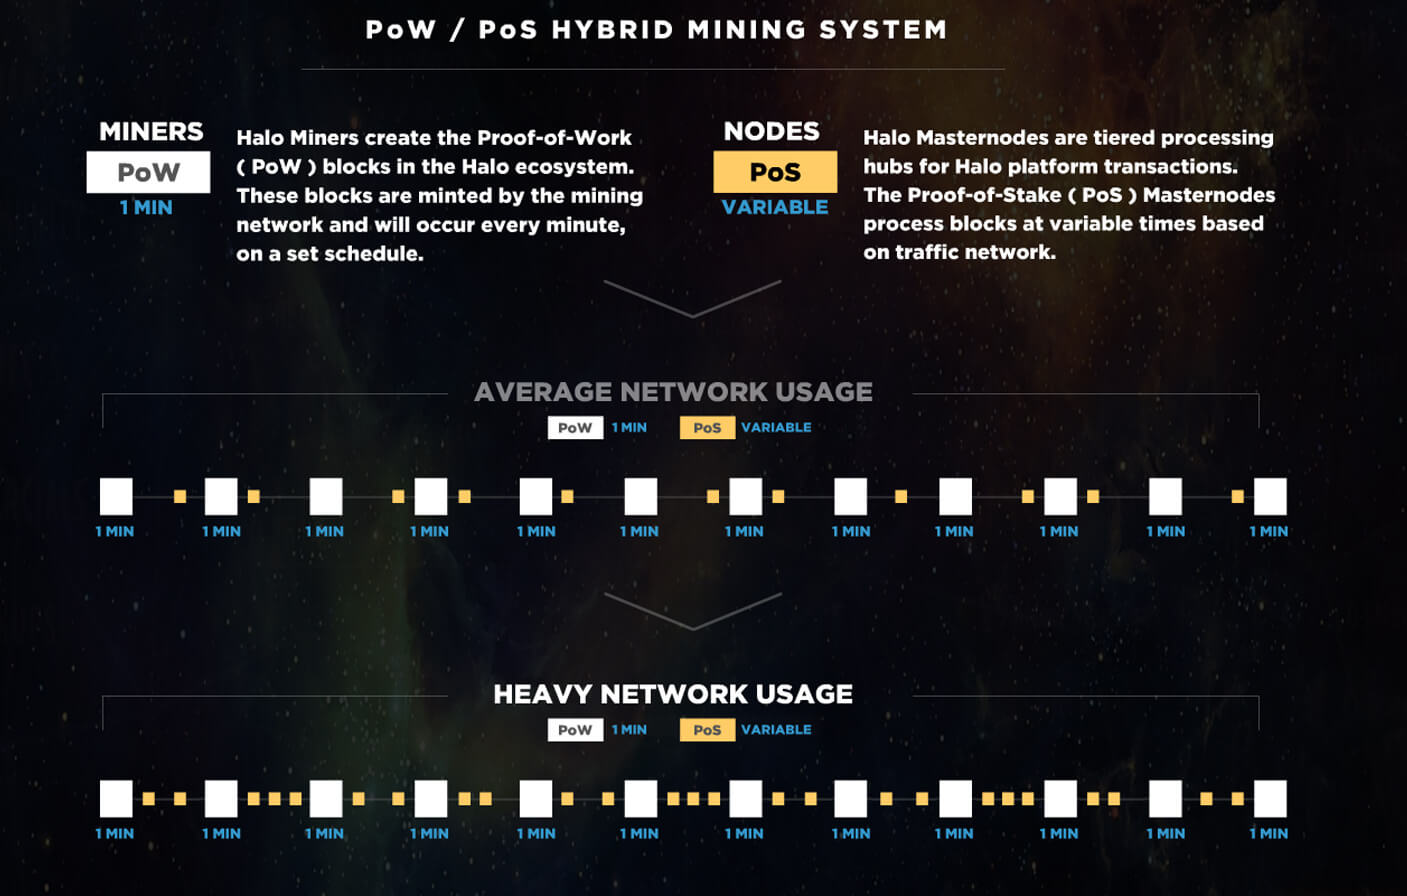
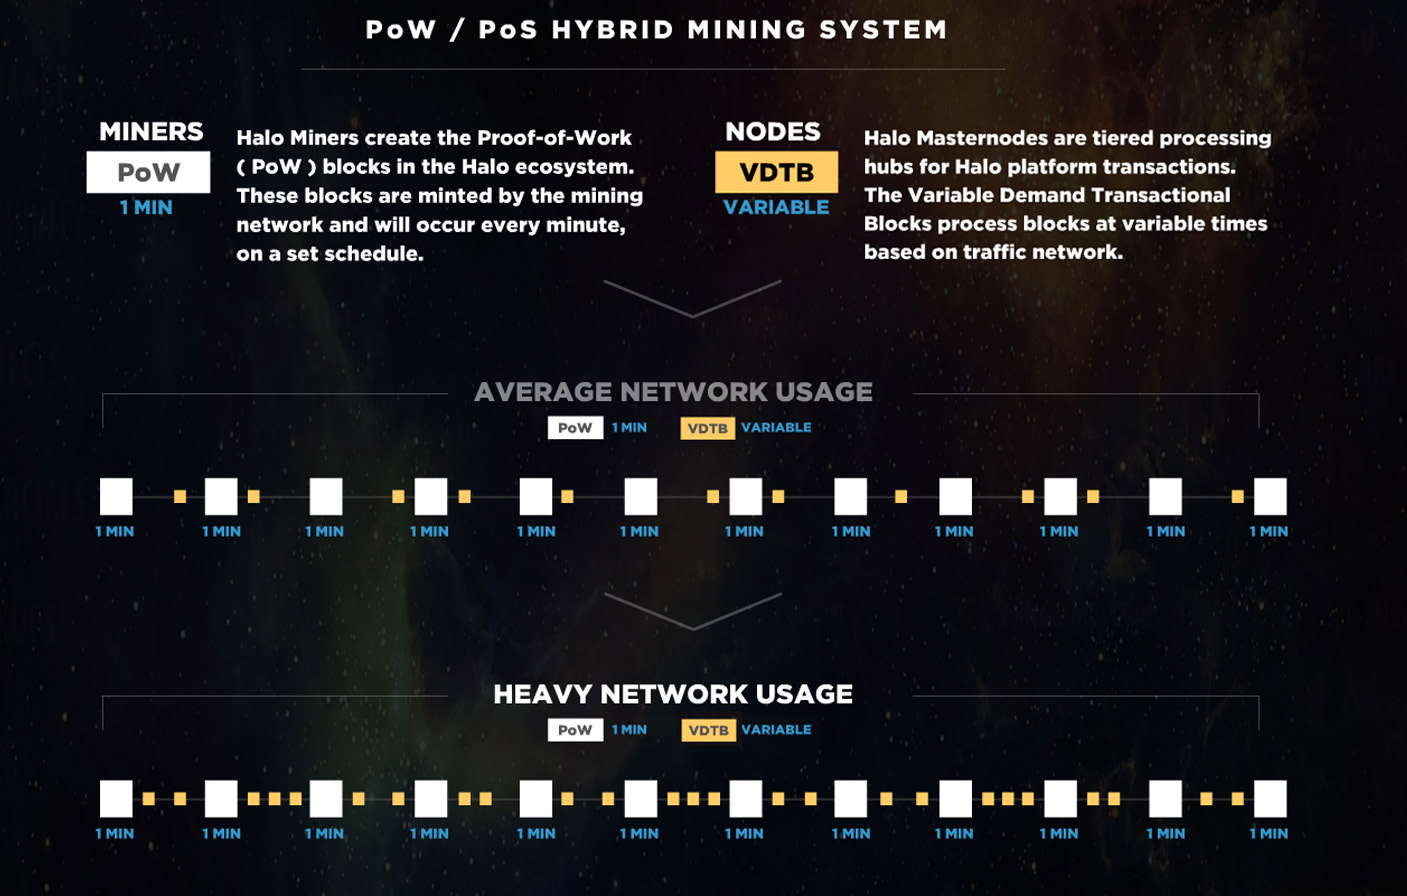
Updated Masternodes Pic & Page only
Updated Masternodes Pic & Page only - checking rest of site now.

diff --git a/halo-masternodes.html b/halo-masternodes.html
@@ -97,14 +97,14 @@
 								<!-- Content -->
 									<section id="content">
 										<a href="#" class="image fit"><img src="images/masternodes-pic.jpg" alt="" /></a>
-									  <h3>Hybrid Mining with PoS ( Proof of Stake ) and PoW ( Proof of Work )</h3>
+									  <h3>Hybrid Mining with PoS ( Proof of Stake ) and VDTB ( Variable Demand Transactional Blocks )</h3>
 										<p>The Halo Masternode System is well structured to provide the highest value to Masternode owners at profitable prices while allowing miners to safely and steadily grow the supply with their ever growing hashrate and confidence from the mining sector.</p>
 										<p>Our Masternode system is broken down into multiple tiers as listed in our <a href="https://s3-sa-east-1.amazonaws.com/haloproject-assets/Halo-Whitepaper.pdf" target="_blank">Halo White Paper</a> that explains the valuable asset that a masternode will provide to its owners. 
 										  Pricing schedules are also listed in the White Paper. Miners will also have a smooth experience, providing for a profitable mining experience with either method.
 										</p>
 										<ul>
 											<li>Set Up Halo Masternodes Easily in Minutes.</li>
-											<li>Hybrid PoW / PoS System to Bolster the Platform.</li>
+											<li>Hybrid PoW / VDTB System to Bolster the Platform.</li>
 											<li>Tiered Nodes Provide Solutions for Multiple Budgets.</li>
 											<li>Miners Help Increase Supply Steadily.</li>
 											<li>Smart Structuring for Solid Incentives.</li>
@@ -118,7 +118,7 @@
 									<section id="sidebar">
 										<section>
 											<h3>Masternodes &amp; Mining</h3>
-											<p>The Halo Hybrid Mining System utilizes both PoW and PoS to allow for a well structured and healthy supply growing naturally. <br><br>
+											<p>The Halo Hybrid Mining System utilizes both PoW and VDTB to allow for a well structured and healthy supply growing naturally. <br><br>
 Proper node tiers keep owners incentivized to be a part of the system with generous rewards.</p>
 											<footer>
 												<ul class="actions">
